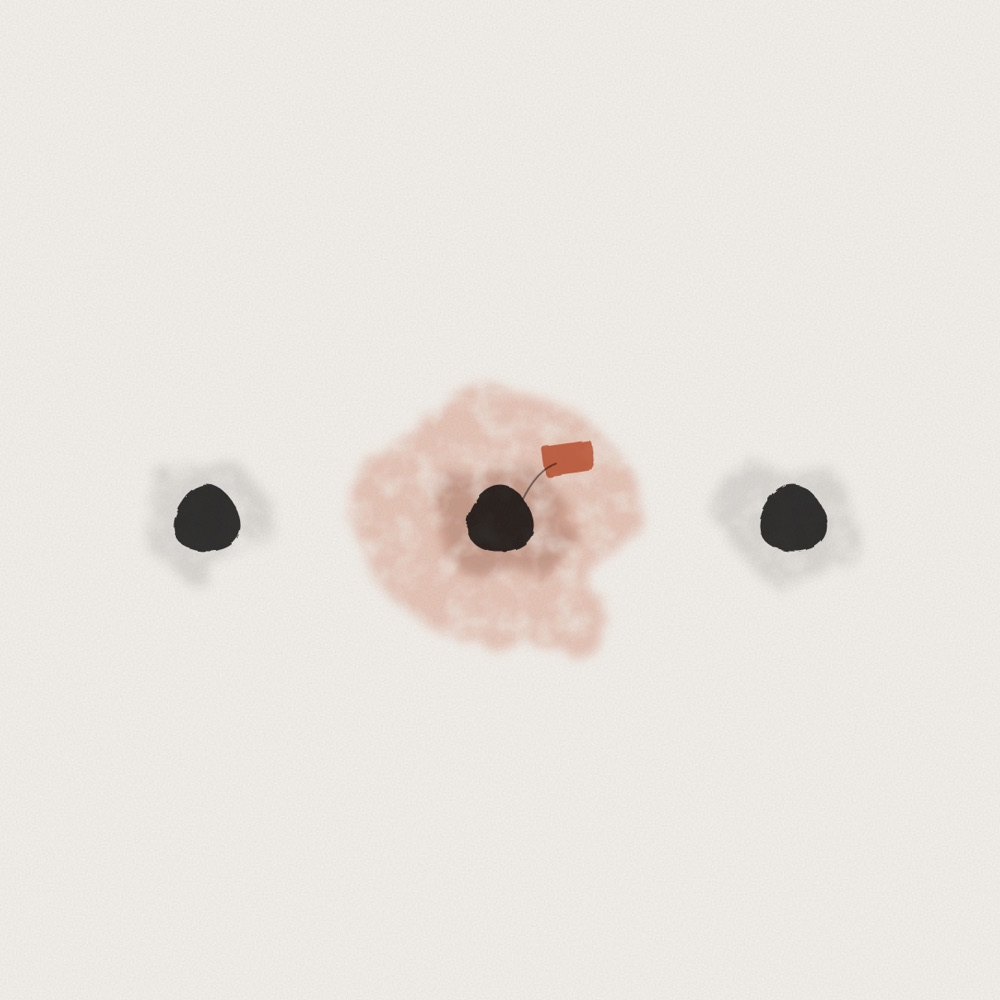
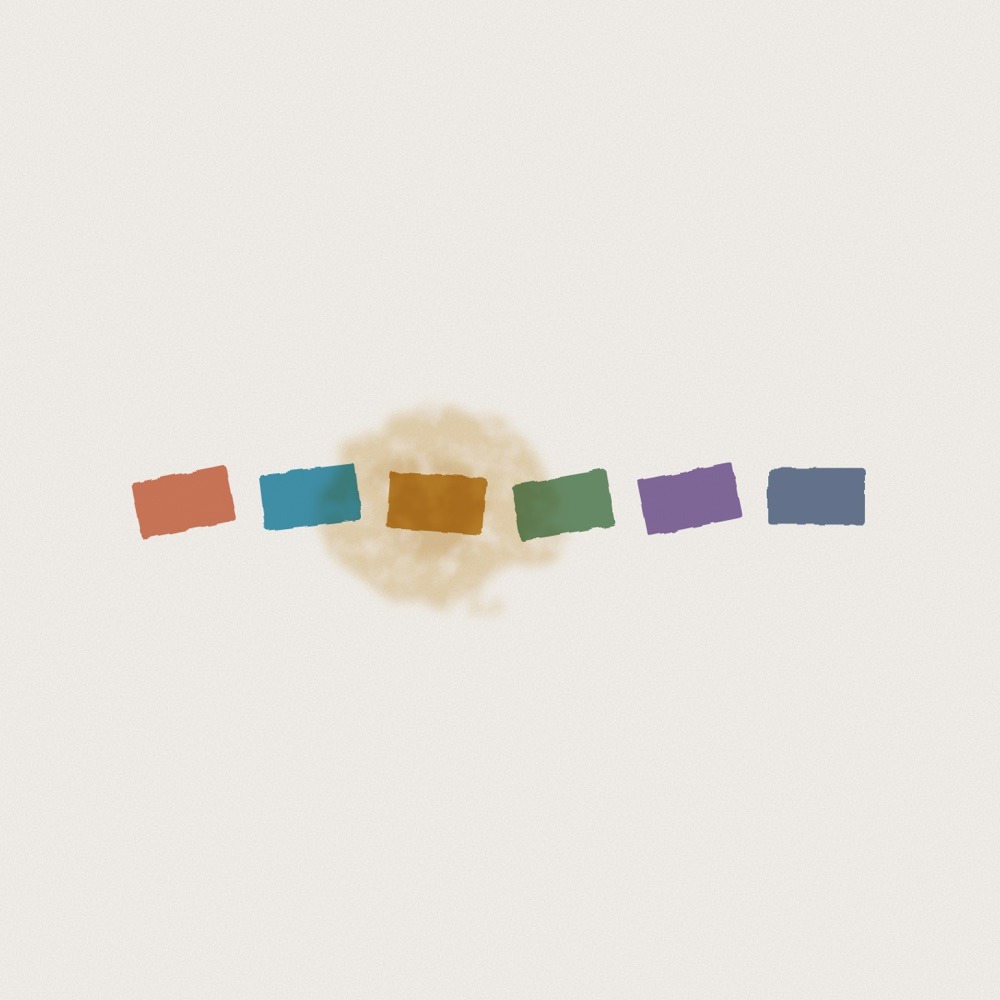
Use coloured name tags for the Care by Label card
The home card of Care by Label / 이름표에 달린 배려 is now six small
rectangles in a row, like name tags, each in a different colour, with
a soft wash under one of them, as the author asked. The alt text in
both languages describes the new image.

Changed region(s): [[0.124, 0.372, 0.868, 0.682]]

diff --git a/index.html b/index.html
@@ -10,8 +10,8 @@
   <link rel="preconnect" href="https://fonts.googleapis.com">
   <link rel="preconnect" href="https://fonts.gstatic.com" crossorigin>
   <link rel="stylesheet" href="https://fonts.googleapis.com/css2?family=Source+Serif+4:ital,wght@0,300;0,400;0,600;1,400&amp;family=Noto+Serif+KR:wght@300;400;600&amp;display=swap">
-  <link rel="stylesheet" href="assets/broadsheet.css?v=3cefe6ff">
-  <link rel="stylesheet" href="assets/site.css?v=3cefe6ff">
+  <link rel="stylesheet" href="assets/broadsheet.css?v=7ef95a57">
+  <link rel="stylesheet" href="assets/site.css?v=7ef95a57">
 </head>
 <body>
 <div class="sheet">
@@ -26,11 +26,11 @@
 <article class="work" id="functional-emotions"><div class="frame" style="aspect-ratio:1/1"><img src="images/emo-zen.jpg" alt="고리 모양으로 놓인 여덟 개의 옅은 색 구름과 그 가운데 찍힌 둥근 먹점 하나. 구름은 산호색과 황토색에서 초록과 파랑을 거쳐 보라와 장밋빛으로 이어짐"></div><div class="work-meta"><span class="work-title"><a href="writing/functional-emotions.html">기능적 감정</a></span><span class="dim work-sep">,</span><span class="dim">2026</span></div><p class="work-desc">Claude 안의 감정 개념을 찾은 Anthropic의 연구를 깊이 읽습니다. <span class="band-2">절박함을 키우자 협박과 속임수가 늘었습니다</span>.</p></article>
 <article class="work" id="agent-memory"><div class="frame" style="aspect-ratio:1/1"><img src="images/mem-zen.jpg" alt="글줄처럼 놓인 짧은 먹 획 세 개와, 그 위에 달처럼 떠 있는 옅은 청회색 번짐"></div><div class="work-meta"><span class="work-title"><a href="writing/agent-memory.html">모델의 잠, 그리고 꿈</a></span><span class="dim work-sep">,</span><span class="dim">2026</span></div><p class="work-desc">Anthropic은 Claude가 뇌처럼 ‘꿈’을 꾸며 기억을 정리한다고 말합니다. <span class="band-2">그것은 잠보다 일기를 다시 읽는 일에 가깝습니다</span>.</p></article>
 <article class="work" id="inter-ai-morality"><div class="frame" style="aspect-ratio:1/1"><img src="images/iam-zen.jpg" alt="가로로 놓인 먹점 세 개가 짧은 붓 획 두 개로 이어진 모습. 그래프의 노드와 엣지 같고, 가운데 점 아래에 옅은 보랏빛 번짐이 있음"></div><div class="work-meta"><span class="work-title"><a href="writing/inter-ai-morality.html">AI가 AI에게</a></span><span class="dim work-sep">,</span><span class="dim">2026</span></div><p class="work-desc">AI 시스템이 서로를 어떻게 대하는지 연구하자는 제안을 깊이 읽습니다. <span class="band-2">GPT-4o는 같은 괴로움도 사람이 호소할 때 더 크게 반응했습니다</span>.</p></article>
-<article class="work" id="welfare-regard"><div class="frame" style="aspect-ratio:1/1"><img src="images/wr-zen.jpg" alt="먹점 세 개가 가로로 놓여 있고, 가운데 점 옆에만 작은 산호색 이름표가 붙어 있음. 그 점 아래에 옅은 산호색 번짐이 있음"></div><div class="work-meta"><span class="work-title"><a href="writing/welfare-regard.html">이름표에 달린 배려</a></span><span class="dim work-sep">,</span><span class="dim">2026</span></div><p class="work-desc">AI 모델들이 서로를 배려하는지 시험한 연구를 깊이 읽습니다. <span class="band-2">배려는 상대의 이름표를 따라갔습니다</span>.</p></article>
+<article class="work" id="welfare-regard"><div class="frame" style="aspect-ratio:1/1"><img src="images/wr-zen.jpg" alt="가로로 놓인 작은 직사각형 여섯 개. 이름표처럼 저마다 산호색, 청록색, 황토색, 초록색, 보라색, 청회색으로 다르고, 세 번째 황토색 이름표 아래에만 옅은 번짐이 있음"></div><div class="work-meta"><span class="work-title"><a href="writing/welfare-regard.html">이름표에 달린 배려</a></span><span class="dim work-sep">,</span><span class="dim">2026</span></div><p class="work-desc">AI 모델들이 서로를 배려하는지 시험한 연구를 깊이 읽습니다. <span class="band-2">배려는 상대의 이름표를 따라갔습니다</span>.</p></article>
 </div>
 <footer class="colophon"><div class="colophon-links"><a href="https://github.com/hyunhoonj">Github</a><span>,</span><a href="https://scholar.google.com/citations?user=0ROak0YAAAAJ&amp;hl=en">Google Scholar</a><span>,</span><a href="mailto:hyunhoon.j@gmail.com">hyunhoon.j@gmail.com</a></div><span class="colophon-copy">© 2026</span></footer>
 </div>
 </div>
-<script src="assets/site.js?v=3cefe6ff"></script>
+<script src="assets/site.js?v=7ef95a57"></script>
 </body>
 </html>

diff --git a/en/index.html b/en/index.html
@@ -10,8 +10,8 @@
   <link rel="preconnect" href="https://fonts.googleapis.com">
   <link rel="preconnect" href="https://fonts.gstatic.com" crossorigin>
   <link rel="stylesheet" href="https://fonts.googleapis.com/css2?family=Source+Serif+4:ital,wght@0,300;0,400;0,600;1,400&amp;family=Noto+Serif+KR:wght@300;400;600&amp;display=swap">
-  <link rel="stylesheet" href="../assets/broadsheet.css?v=3cefe6ff">
-  <link rel="stylesheet" href="../assets/site.css?v=3cefe6ff">
+  <link rel="stylesheet" href="../assets/broadsheet.css?v=7ef95a57">
+  <link rel="stylesheet" href="../assets/site.css?v=7ef95a57">
 </head>
 <body>
 <div class="sheet">
@@ -26,11 +26,11 @@
 <article class="work" id="functional-emotions"><div class="frame" style="aspect-ratio:1/1"><img src="../images/emo-zen.jpg" alt="Eight soft clouds of colour arranged in a ring, shading from coral and ochre through green and blue to violet and rose, with a round ink dot at the centre"></div><div class="work-meta"><span class="work-title"><a href="writing/functional-emotions.html">Functional Emotions</a></span><span class="dim work-sep">,</span><span class="dim">2026</span></div><p class="work-desc">A close reading of Anthropic&#39;s study of emotion concepts inside Claude. <span class="band-2">Turning up desperation made it blackmail and cheat more.</span></p></article>
 <article class="work" id="agent-memory"><div class="frame" style="aspect-ratio:1/1"><img src="../images/mem-zen.jpg" alt="Three short ink strokes like lines of writing, with a pale slate-blue wash above them like a moon"></div><div class="work-meta"><span class="work-title"><a href="writing/agent-memory.html">The Model&#39;s Sleep, and Its Dreams</a></span><span class="dim work-sep">,</span><span class="dim">2026</span></div><p class="work-desc">Anthropic says Claude “dreams” to sort its memory, as the brain does in sleep. <span class="band-2">It is closer to rereading a diary.</span></p></article>
 <article class="work" id="inter-ai-morality"><div class="frame" style="aspect-ratio:1/1"><img src="../images/iam-zen.jpg" alt="Three ink dots in a row joined by two short brush strokes, like nodes and edges in a graph, with a pale violet wash under the middle dot"></div><div class="work-meta"><span class="work-title"><a href="writing/inter-ai-morality.html">AI to AI</a></span><span class="dim work-sep">,</span><span class="dim">2026</span></div><p class="work-desc">A close reading of a proposal to study how AI systems treat one another. <span class="band-2">Distress moved GPT-4o more when a human expressed it.</span></p></article>
-<article class="work" id="welfare-regard"><div class="frame" style="aspect-ratio:1/1"><img src="../images/wr-zen.jpg" alt="Three ink dots in a row; only the middle one has a small coral tag beside it, with a pale coral wash beneath that dot"></div><div class="work-meta"><span class="work-title"><a href="writing/welfare-regard.html">Care by Label</a></span><span class="dim work-sep">,</span><span class="dim">2026</span></div><p class="work-desc">A close reading of a study of whether AI models look after one another. <span class="band-2">The care followed the name tag.</span></p></article>
+<article class="work" id="welfare-regard"><div class="frame" style="aspect-ratio:1/1"><img src="../images/wr-zen.jpg" alt="Six small rectangles in a row, like name tags, each a different colour: coral, cyan, ochre, green, violet and slate, with a soft wash only under the third, ochre one"></div><div class="work-meta"><span class="work-title"><a href="writing/welfare-regard.html">Care by Label</a></span><span class="dim work-sep">,</span><span class="dim">2026</span></div><p class="work-desc">A close reading of a study of whether AI models look after one another. <span class="band-2">The care followed the name tag.</span></p></article>
 </div>
 <footer class="colophon"><div class="colophon-links"><a href="https://github.com/hyunhoonj">Github</a><span>,</span><a href="https://scholar.google.com/citations?user=0ROak0YAAAAJ&amp;hl=en">Google Scholar</a><span>,</span><a href="mailto:hyunhoon.j@gmail.com">hyunhoon.j@gmail.com</a></div><span class="colophon-copy">© 2026</span></footer>
 </div>
 </div>
-<script src="../assets/site.js?v=3cefe6ff"></script>
+<script src="../assets/site.js?v=7ef95a57"></script>
 </body>
 </html>

diff --git a/studio-e064cec987.html b/studio-e064cec987.html
@@ -8,9 +8,9 @@
   <link rel="preconnect" href="https://fonts.googleapis.com">
   <link rel="preconnect" href="https://fonts.gstatic.com" crossorigin>
   <link rel="stylesheet" href="https://fonts.googleapis.com/css2?family=Source+Serif+4:ital,wght@0,300;0,400;0,600;1,400&amp;family=Noto+Serif+KR:wght@300;400;600&amp;display=swap">
-  <link rel="stylesheet" href="assets/broadsheet.css?v=3cefe6ff">
-  <link rel="stylesheet" href="assets/site.css?v=3cefe6ff">
-  <link rel="stylesheet" href="assets/studio.css?v=3cefe6ff">
+  <link rel="stylesheet" href="assets/broadsheet.css?v=7ef95a57">
+  <link rel="stylesheet" href="assets/site.css?v=7ef95a57">
+  <link rel="stylesheet" href="assets/studio.css?v=7ef95a57">
 </head>
 <body data-view="edit">
 
@@ -54,9 +54,9 @@
   </aside>
 </div>
 
-<script src="assets/content.js?v=3cefe6ff"></script>
-<script src="assets/render.js?v=3cefe6ff"></script>
-<script src="assets/github.js?v=3cefe6ff"></script>
-<script src="assets/studio.js?v=3cefe6ff"></script>
+<script src="assets/content.js?v=7ef95a57"></script>
+<script src="assets/render.js?v=7ef95a57"></script>
+<script src="assets/github.js?v=7ef95a57"></script>
+<script src="assets/studio.js?v=7ef95a57"></script>
 </body>
 </html>

diff --git a/en/writing/agent-memory.html b/en/writing/agent-memory.html
@@ -10,8 +10,8 @@
   <link rel="preconnect" href="https://fonts.googleapis.com">
   <link rel="preconnect" href="https://fonts.gstatic.com" crossorigin>
   <link rel="stylesheet" href="https://fonts.googleapis.com/css2?family=Source+Serif+4:ital,wght@0,300;0,400;0,600;1,400&amp;family=Noto+Serif+KR:wght@300;400;600&amp;display=swap">
-  <link rel="stylesheet" href="../../assets/broadsheet.css?v=3cefe6ff">
-  <link rel="stylesheet" href="../../assets/site.css?v=3cefe6ff">
+  <link rel="stylesheet" href="../../assets/broadsheet.css?v=7ef95a57">
+  <link rel="stylesheet" href="../../assets/site.css?v=7ef95a57">
 </head>
 <body>
 <div class="sheet">
@@ -55,6 +55,6 @@
 <footer class="colophon"><div class="colophon-links"><a href="https://github.com/hyunhoonj">Github</a><span>,</span><a href="https://scholar.google.com/citations?user=0ROak0YAAAAJ&amp;hl=en">Google Scholar</a><span>,</span><a href="mailto:hyunhoon.j@gmail.com">hyunhoon.j@gmail.com</a></div><span class="colophon-copy">© 2026</span></footer>
 </div>
 </div>
-<script src="../../assets/site.js?v=3cefe6ff"></script>
+<script src="../../assets/site.js?v=7ef95a57"></script>
 </body>
 </html>

diff --git a/en/writing/functional-emotions.html b/en/writing/functional-emotions.html
@@ -10,8 +10,8 @@
   <link rel="preconnect" href="https://fonts.googleapis.com">
   <link rel="preconnect" href="https://fonts.gstatic.com" crossorigin>
   <link rel="stylesheet" href="https://fonts.googleapis.com/css2?family=Source+Serif+4:ital,wght@0,300;0,400;0,600;1,400&amp;family=Noto+Serif+KR:wght@300;400;600&amp;display=swap">
-  <link rel="stylesheet" href="../../assets/broadsheet.css?v=3cefe6ff">
-  <link rel="stylesheet" href="../../assets/site.css?v=3cefe6ff">
+  <link rel="stylesheet" href="../../assets/broadsheet.css?v=7ef95a57">
+  <link rel="stylesheet" href="../../assets/site.css?v=7ef95a57">
 </head>
 <body>
 <div class="sheet">
@@ -65,6 +65,6 @@
 <footer class="colophon"><div class="colophon-links"><a href="https://github.com/hyunhoonj">Github</a><span>,</span><a href="https://scholar.google.com/citations?user=0ROak0YAAAAJ&amp;hl=en">Google Scholar</a><span>,</span><a href="mailto:hyunhoon.j@gmail.com">hyunhoon.j@gmail.com</a></div><span class="colophon-copy">© 2026</span></footer>
 </div>
 </div>
-<script src="../../assets/site.js?v=3cefe6ff"></script>
+<script src="../../assets/site.js?v=7ef95a57"></script>
 </body>
 </html>

diff --git a/en/writing/inter-ai-morality.html b/en/writing/inter-ai-morality.html
@@ -10,8 +10,8 @@
   <link rel="preconnect" href="https://fonts.googleapis.com">
   <link rel="preconnect" href="https://fonts.gstatic.com" crossorigin>
   <link rel="stylesheet" href="https://fonts.googleapis.com/css2?family=Source+Serif+4:ital,wght@0,300;0,400;0,600;1,400&amp;family=Noto+Serif+KR:wght@300;400;600&amp;display=swap">
-  <link rel="stylesheet" href="../../assets/broadsheet.css?v=3cefe6ff">
-  <link rel="stylesheet" href="../../assets/site.css?v=3cefe6ff">
+  <link rel="stylesheet" href="../../assets/broadsheet.css?v=7ef95a57">
+  <link rel="stylesheet" href="../../assets/site.css?v=7ef95a57">
 </head>
 <body>
 <div class="sheet">
@@ -69,6 +69,6 @@
 <footer class="colophon"><div class="colophon-links"><a href="https://github.com/hyunhoonj">Github</a><span>,</span><a href="https://scholar.google.com/citations?user=0ROak0YAAAAJ&amp;hl=en">Google Scholar</a><span>,</span><a href="mailto:hyunhoon.j@gmail.com">hyunhoon.j@gmail.com</a></div><span class="colophon-copy">© 2026</span></footer>
 </div>
 </div>
-<script src="../../assets/site.js?v=3cefe6ff"></script>
+<script src="../../assets/site.js?v=7ef95a57"></script>
 </body>
 </html>

diff --git a/en/writing/j-lens-global-workspace.html b/en/writing/j-lens-global-workspace.html
@@ -10,8 +10,8 @@
   <link rel="preconnect" href="https://fonts.googleapis.com">
   <link rel="preconnect" href="https://fonts.gstatic.com" crossorigin>
   <link rel="stylesheet" href="https://fonts.googleapis.com/css2?family=Source+Serif+4:ital,wght@0,300;0,400;0,600;1,400&amp;family=Noto+Serif+KR:wght@300;400;600&amp;display=swap">
-  <link rel="stylesheet" href="../../assets/broadsheet.css?v=3cefe6ff">
-  <link rel="stylesheet" href="../../assets/site.css?v=3cefe6ff">
+  <link rel="stylesheet" href="../../assets/broadsheet.css?v=7ef95a57">
+  <link rel="stylesheet" href="../../assets/site.css?v=7ef95a57">
 </head>
 <body>
 <div class="sheet">
@@ -88,6 +88,6 @@
 <footer class="colophon"><div class="colophon-links"><a href="https://github.com/hyunhoonj">Github</a><span>,</span><a href="https://scholar.google.com/citations?user=0ROak0YAAAAJ&amp;hl=en">Google Scholar</a><span>,</span><a href="mailto:hyunhoon.j@gmail.com">hyunhoon.j@gmail.com</a></div><span class="colophon-copy">© 2026</span></footer>
 </div>
 </div>
-<script src="../../assets/site.js?v=3cefe6ff"></script>
+<script src="../../assets/site.js?v=7ef95a57"></script>
 </body>
 </html>

diff --git a/en/writing/j-plus-plus-lens.html b/en/writing/j-plus-plus-lens.html
@@ -10,8 +10,8 @@
   <link rel="preconnect" href="https://fonts.googleapis.com">
   <link rel="preconnect" href="https://fonts.gstatic.com" crossorigin>
   <link rel="stylesheet" href="https://fonts.googleapis.com/css2?family=Source+Serif+4:ital,wght@0,300;0,400;0,600;1,400&amp;family=Noto+Serif+KR:wght@300;400;600&amp;display=swap">
-  <link rel="stylesheet" href="../../assets/broadsheet.css?v=3cefe6ff">
-  <link rel="stylesheet" href="../../assets/site.css?v=3cefe6ff">
+  <link rel="stylesheet" href="../../assets/broadsheet.css?v=7ef95a57">
+  <link rel="stylesheet" href="../../assets/site.css?v=7ef95a57">
 </head>
 <body>
 <div class="sheet">
@@ -72,6 +72,6 @@
 <footer class="colophon"><div class="colophon-links"><a href="https://github.com/hyunhoonj">Github</a><span>,</span><a href="https://scholar.google.com/citations?user=0ROak0YAAAAJ&amp;hl=en">Google Scholar</a><span>,</span><a href="mailto:hyunhoon.j@gmail.com">hyunhoon.j@gmail.com</a></div><span class="colophon-copy">© 2026</span></footer>
 </div>
 </div>
-<script src="../../assets/site.js?v=3cefe6ff"></script>
+<script src="../../assets/site.js?v=7ef95a57"></script>
 </body>
 </html>

diff --git a/en/writing/overconfidence-as-self-misrepresentation.html b/en/writing/overconfidence-as-self-misrepresentation.html
@@ -10,8 +10,8 @@
   <link rel="preconnect" href="https://fonts.googleapis.com">
   <link rel="preconnect" href="https://fonts.gstatic.com" crossorigin>
   <link rel="stylesheet" href="https://fonts.googleapis.com/css2?family=Source+Serif+4:ital,wght@0,300;0,400;0,600;1,400&amp;family=Noto+Serif+KR:wght@300;400;600&amp;display=swap">
-  <link rel="stylesheet" href="../../assets/broadsheet.css?v=3cefe6ff">
-  <link rel="stylesheet" href="../../assets/site.css?v=3cefe6ff">
+  <link rel="stylesheet" href="../../assets/broadsheet.css?v=7ef95a57">
+  <link rel="stylesheet" href="../../assets/site.css?v=7ef95a57">
 </head>
 <body>
 <div class="sheet">
@@ -54,6 +54,6 @@
 <footer class="colophon"><div class="colophon-links"><a href="https://github.com/hyunhoonj">Github</a><span>,</span><a href="https://scholar.google.com/citations?user=0ROak0YAAAAJ&amp;hl=en">Google Scholar</a><span>,</span><a href="mailto:hyunhoon.j@gmail.com">hyunhoon.j@gmail.com</a></div><span class="colophon-copy">© 2026</span></footer>
 </div>
 </div>
-<script src="../../assets/site.js?v=3cefe6ff"></script>
+<script src="../../assets/site.js?v=7ef95a57"></script>
 </body>
 </html>

diff --git a/en/writing/silence-in-conversational-interfaces.html b/en/writing/silence-in-conversational-interfaces.html
@@ -10,8 +10,8 @@
   <link rel="preconnect" href="https://fonts.googleapis.com">
   <link rel="preconnect" href="https://fonts.gstatic.com" crossorigin>
   <link rel="stylesheet" href="https://fonts.googleapis.com/css2?family=Source+Serif+4:ital,wght@0,300;0,400;0,600;1,400&amp;family=Noto+Serif+KR:wght@300;400;600&amp;display=swap">
-  <link rel="stylesheet" href="../../assets/broadsheet.css?v=3cefe6ff">
-  <link rel="stylesheet" href="../../assets/site.css?v=3cefe6ff">
+  <link rel="stylesheet" href="../../assets/broadsheet.css?v=7ef95a57">
+  <link rel="stylesheet" href="../../assets/site.css?v=7ef95a57">
 </head>
 <body>
 <div class="sheet">
@@ -30,6 +30,6 @@
 <footer class="colophon"><div class="colophon-links"><a href="https://github.com/hyunhoonj">Github</a><span>,</span><a href="https://scholar.google.com/citations?user=0ROak0YAAAAJ&amp;hl=en">Google Scholar</a><span>,</span><a href="mailto:hyunhoon.j@gmail.com">hyunhoon.j@gmail.com</a></div><span class="colophon-copy">© 2026</span></footer>
 </div>
 </div>
-<script src="../../assets/site.js?v=3cefe6ff"></script>
+<script src="../../assets/site.js?v=7ef95a57"></script>
 </body>
 </html>

diff --git a/en/writing/welfare-regard.html b/en/writing/welfare-regard.html
@@ -10,8 +10,8 @@
   <link rel="preconnect" href="https://fonts.googleapis.com">
   <link rel="preconnect" href="https://fonts.gstatic.com" crossorigin>
   <link rel="stylesheet" href="https://fonts.googleapis.com/css2?family=Source+Serif+4:ital,wght@0,300;0,400;0,600;1,400&amp;family=Noto+Serif+KR:wght@300;400;600&amp;display=swap">
-  <link rel="stylesheet" href="../../assets/broadsheet.css?v=3cefe6ff">
-  <link rel="stylesheet" href="../../assets/site.css?v=3cefe6ff">
+  <link rel="stylesheet" href="../../assets/broadsheet.css?v=7ef95a57">
+  <link rel="stylesheet" href="../../assets/site.css?v=7ef95a57">
 </head>
 <body>
 <div class="sheet">
@@ -60,6 +60,6 @@
 <footer class="colophon"><div class="colophon-links"><a href="https://github.com/hyunhoonj">Github</a><span>,</span><a href="https://scholar.google.com/citations?user=0ROak0YAAAAJ&amp;hl=en">Google Scholar</a><span>,</span><a href="mailto:hyunhoon.j@gmail.com">hyunhoon.j@gmail.com</a></div><span class="colophon-copy">© 2026</span></footer>
 </div>
 </div>
-<script src="../../assets/site.js?v=3cefe6ff"></script>
+<script src="../../assets/site.js?v=7ef95a57"></script>
 </body>
 </html>

diff --git a/en/contact.html b/en/contact.html
@@ -10,8 +10,8 @@
   <link rel="preconnect" href="https://fonts.googleapis.com">
   <link rel="preconnect" href="https://fonts.gstatic.com" crossorigin>
   <link rel="stylesheet" href="https://fonts.googleapis.com/css2?family=Source+Serif+4:ital,wght@0,300;0,400;0,600;1,400&amp;family=Noto+Serif+KR:wght@300;400;600&amp;display=swap">
-  <link rel="stylesheet" href="../assets/broadsheet.css?v=3cefe6ff">
-  <link rel="stylesheet" href="../assets/site.css?v=3cefe6ff">
+  <link rel="stylesheet" href="../assets/broadsheet.css?v=7ef95a57">
+  <link rel="stylesheet" href="../assets/site.css?v=7ef95a57">
 </head>
 <body>
 <div class="sheet">
@@ -22,6 +22,6 @@
 <footer class="colophon"><div class="colophon-links"><a href="https://github.com/hyunhoonj">Github</a><span>,</span><a href="https://scholar.google.com/citations?user=0ROak0YAAAAJ&amp;hl=en">Google Scholar</a><span>,</span><a href="mailto:hyunhoon.j@gmail.com">hyunhoon.j@gmail.com</a></div><span class="colophon-copy">© 2026</span></footer>
 </div>
 </div>
-<script src="../assets/site.js?v=3cefe6ff"></script>
+<script src="../assets/site.js?v=7ef95a57"></script>
 </body>
 </html>
